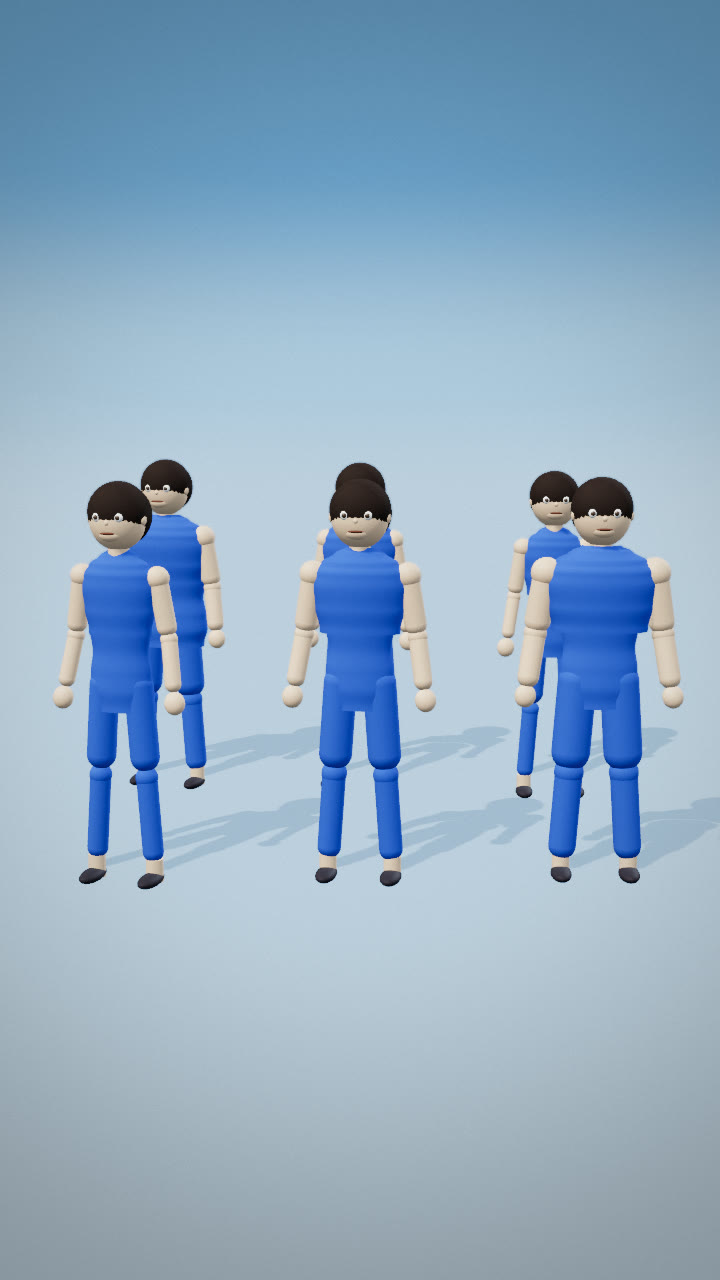
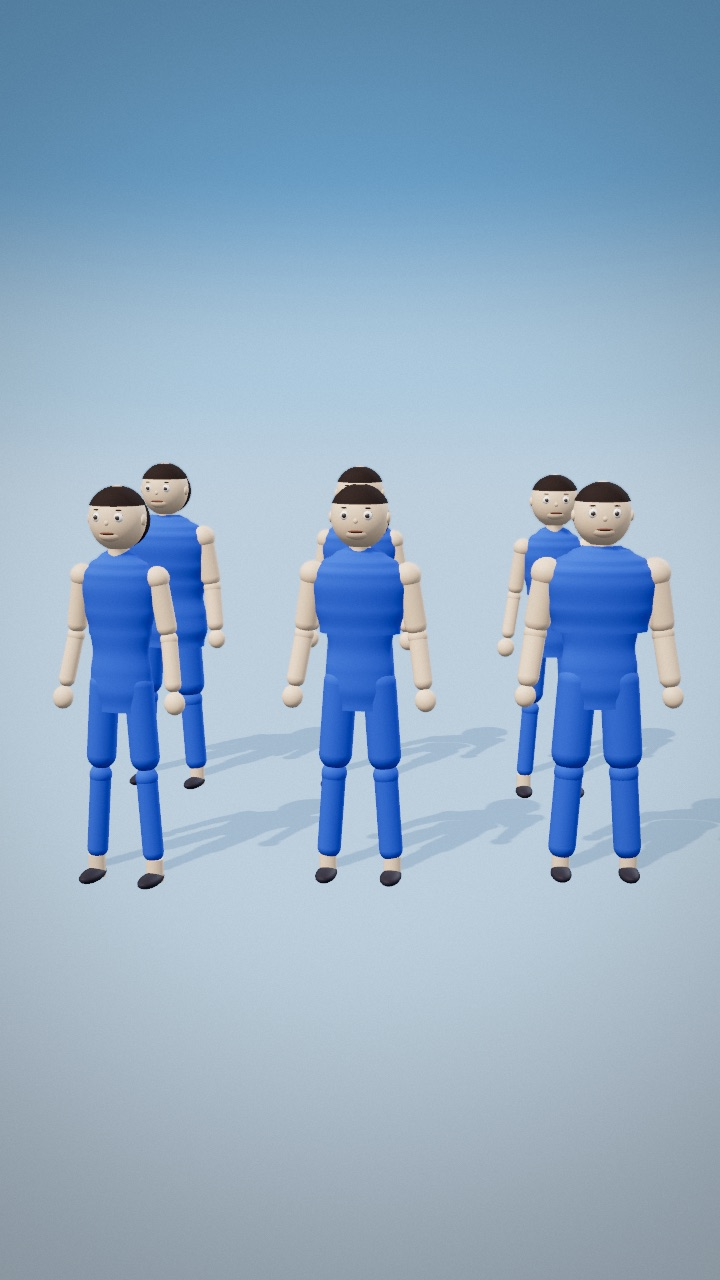
3d hair: cap the hairline above the brow so it stops covering the eyes
A full sphere around the head still has a radius of about 0.09 in the xy
plane at the depth the eyes sit at, so every hairstyle hung down over
them. Each style is now a sphere cap whose rim is solved to land above
the brow line, with a separate sphere for the nape, and the radii are
close enough to the skull that the cap reads as hair rather than a hat.

diff --git a/cast3d.js b/cast3d.js
@@ -67,27 +67,57 @@ function buildFace(M, o) {
   for (const s of [1, -1]) head.add(sph(0.026, skin, [s * 0.132, -0.005, 0.01], [0.5, 1, 0.9]));
 
   // hair
+  // A full sphere round the head covers the eyes: at the eye plane its radius is still
+  // wider than the eye is high. So the top is a CAP that stops above the brow, and the
+  // back of the head gets its own piece.
   const hc = mat(o.hairCol ?? 'darkBrown', 0.9);
   const k = o.hair ?? 'crop';
-  if (k === 'buzz') head.add(sph(0.139, hc, [0, 0.014, -0.008], [1, 1.04, 0.96], 30));
-  else if (k === 'crop') {
-    head.add(sph(0.145, hc, [0, 0.026, -0.01], [1, 1.0, 0.98], 30));
-    head.add(sph(0.142, hc, [0, 0.01, -0.052], [1, 1.02, 0.9]));
+  const BROW_Y = 0.046;                                   // keep every cap above this
+  // thetaLength from the north pole, solved so the cap's rim lands at `stopY`
+  const capTo = (R, cy, stopY) => Math.acos(Math.max(-1, Math.min(1, (stopY - cy) / R)));
+  const hairCap = (R, cy, stopY, zoff = 0, sx = 1, sz = 1) => {
+    const th = capTo(R, cy, stopY);
+    const g = new THREE.SphereGeometry(R, 32, 20, 0, Math.PI * 2, 0, th);
+    const m = new THREE.Mesh(g, hc);
+    m.position.set(0, cy, zoff); m.scale.set(sx, 1, sz);
+    head.add(m); return m;
+  };
+  const napeBack = (R, cy, zoff, sy = 1) => {
+    const m = sph(R, hc, [0, cy, zoff], [1, sy, 1], 28);
+    head.add(m); return m;
+  };
+
+  if (k === 'buzz') {
+    hairCap(0.1385, 0.006, BROW_Y + 0.012, 0, 1, 0.99);
+    napeBack(0.128, -0.004, -0.044, 0.98);
+  } else if (k === 'crop') {
+    hairCap(0.1405, 0.010, BROW_Y + 0.016, 0, 1, 0.99);
+    napeBack(0.132, -0.012, -0.046, 1.0);
   } else if (k === 'quiff') {
-    head.add(sph(0.144, hc, [0, 0.03, -0.012], [1, 0.98, 0.98], 30));
-    head.add(sph(0.062, hc, [0, 0.142, 0.038], [1.25, 1.0, 0.9]));
+    hairCap(0.1405, 0.012, BROW_Y + 0.022, 0, 1, 0.99);
+    napeBack(0.131, -0.008, -0.046, 0.98);
+    head.add(sph(0.058, hc, [0, 0.142, 0.03], [1.3, 1.0, 0.85]));
   } else if (k === 'bun') {
-    head.add(sph(0.146, hc, [0, 0.024, -0.016], [1, 1.0, 0.98], 30));
-    head.add(sph(0.058, hc, [0, 0.118, -0.126]));
+    hairCap(0.1412, 0.010, BROW_Y + 0.016, 0, 1, 0.99);
+    napeBack(0.134, -0.012, -0.046, 1.02);
+    head.add(sph(0.058, hc, [0, 0.116, -0.124]));
   } else if (k === 'long') {
-    head.add(sph(0.148, hc, [0, 0.022, -0.018], [1, 1.0, 0.98], 30));
-    const m = new THREE.Mesh(new THREE.CapsuleGeometry(0.115, 0.3, 6, 24), hc);
-    m.position.set(0, -0.19, -0.062); m.scale.set(1.05, 1, 0.62); head.add(m);
+    hairCap(0.1418, 0.010, BROW_Y + 0.014, 0, 1, 0.99);
+    napeBack(0.137, -0.014, -0.046, 1.04);
+    const m = new THREE.Mesh(new THREE.CapsuleGeometry(0.118, 0.3, 6, 24), hc);
+    m.position.set(0, -0.19, -0.068); m.scale.set(1.05, 1, 0.6); head.add(m);
+    for (const s of [1, -1]) {                            // a lock either side of the face
+      const l = new THREE.Mesh(new THREE.CapsuleGeometry(0.036, 0.19, 5, 16), hc);
+      l.position.set(s * 0.116, -0.085, 0.022); l.scale.set(1, 1, 0.78); head.add(l);
+    }
   } else if (k === 'afro') {
-    head.add(sph(0.185, hc, [0, 0.042, -0.012], [1.04, 1, 1], 34));
-    for (let i = 0; i < 9; i++) {
-      const a = (i / 9) * Math.PI * 2;
-      head.add(sph(0.062, hc, [Math.cos(a) * 0.17, 0.05 + Math.sin(a) * 0.14, -0.02]));
+    hairCap(0.176, 0.026, BROW_Y + 0.020, -0.012, 1.04, 1);
+    napeBack(0.162, -0.006, -0.05, 1.0);
+    for (let i = 0; i < 8; i++) {
+      const a = (i / 8) * Math.PI * 2;
+      const y = 0.052 + Math.sin(a) * 0.13;
+      if (y < BROW_Y + 0.05 && Math.cos(a) * 0.17 > -0.02) continue;   // never in front of the face
+      head.add(sph(0.058, hc, [Math.cos(a) * 0.17, y, -0.03]));
     }
   }
   // beard
